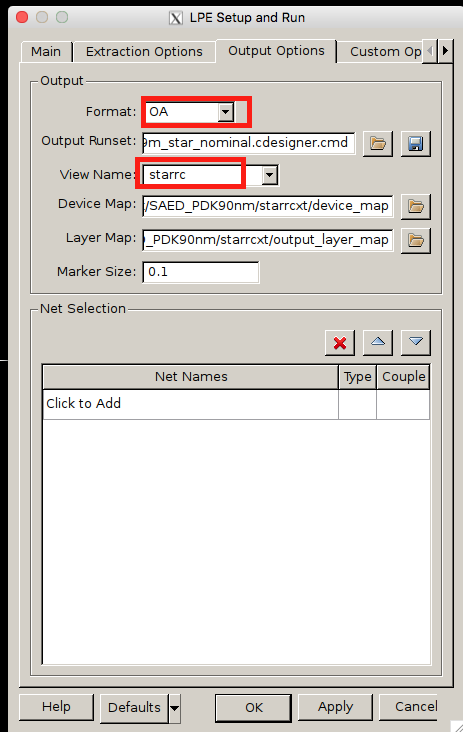
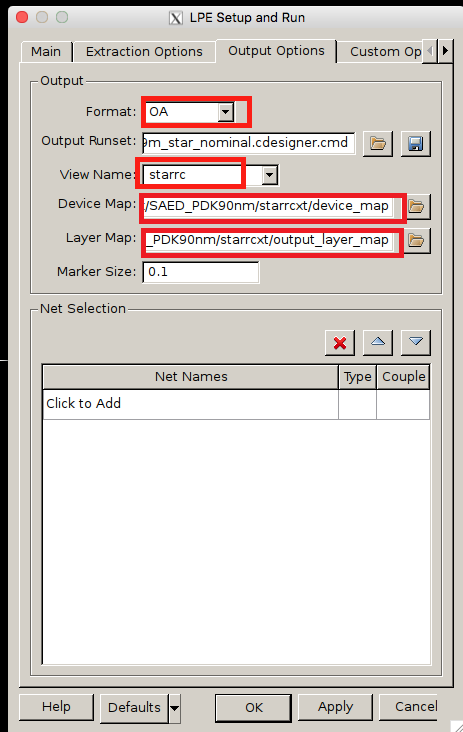
Revised

Changed region(s): [[0.3024, 0.2404, 0.8769, 0.3607]]

diff --git a/lab3/README.md b/lab3/README.md
@@ -46,6 +46,15 @@ _**Fig. 68. LPE Setup for StarRC**_
 
 Make sure the other options in this tab match up with Fig 67-0,1,2,3, and Fig 68.
 
+Device Map:
+```
+/usr/local/synopsys/pdk/SAED_PDK90nm/starrcxt/device_map
+```
+Layer Map:
+```
+/usr/local/synopsys/pdk/SAED_PDK90nm/starrcxt/output_layer_map
+```
+
 Now click on OK. Then you will see Customer Designer as Fig. 69.
 
 ![fig69](images/Fig_69.png)
